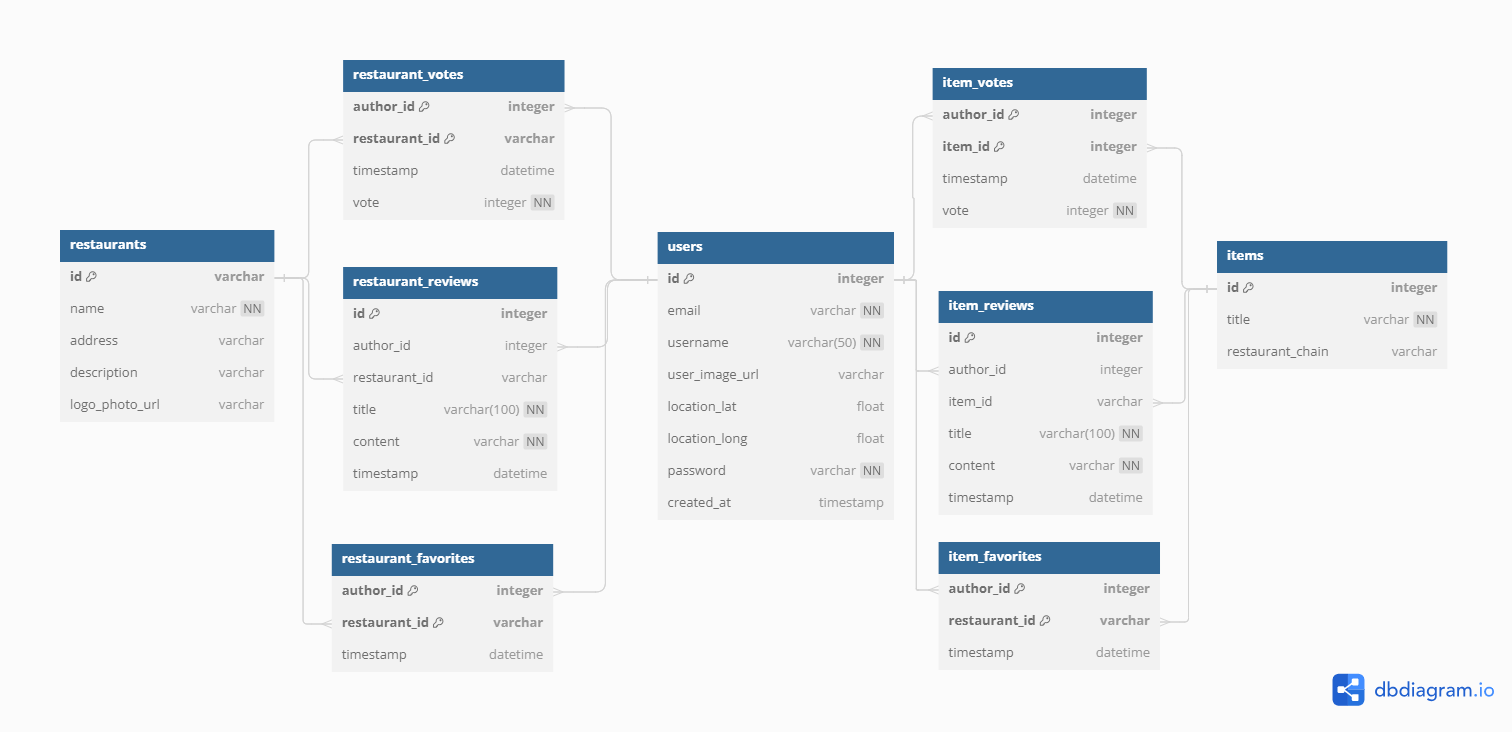
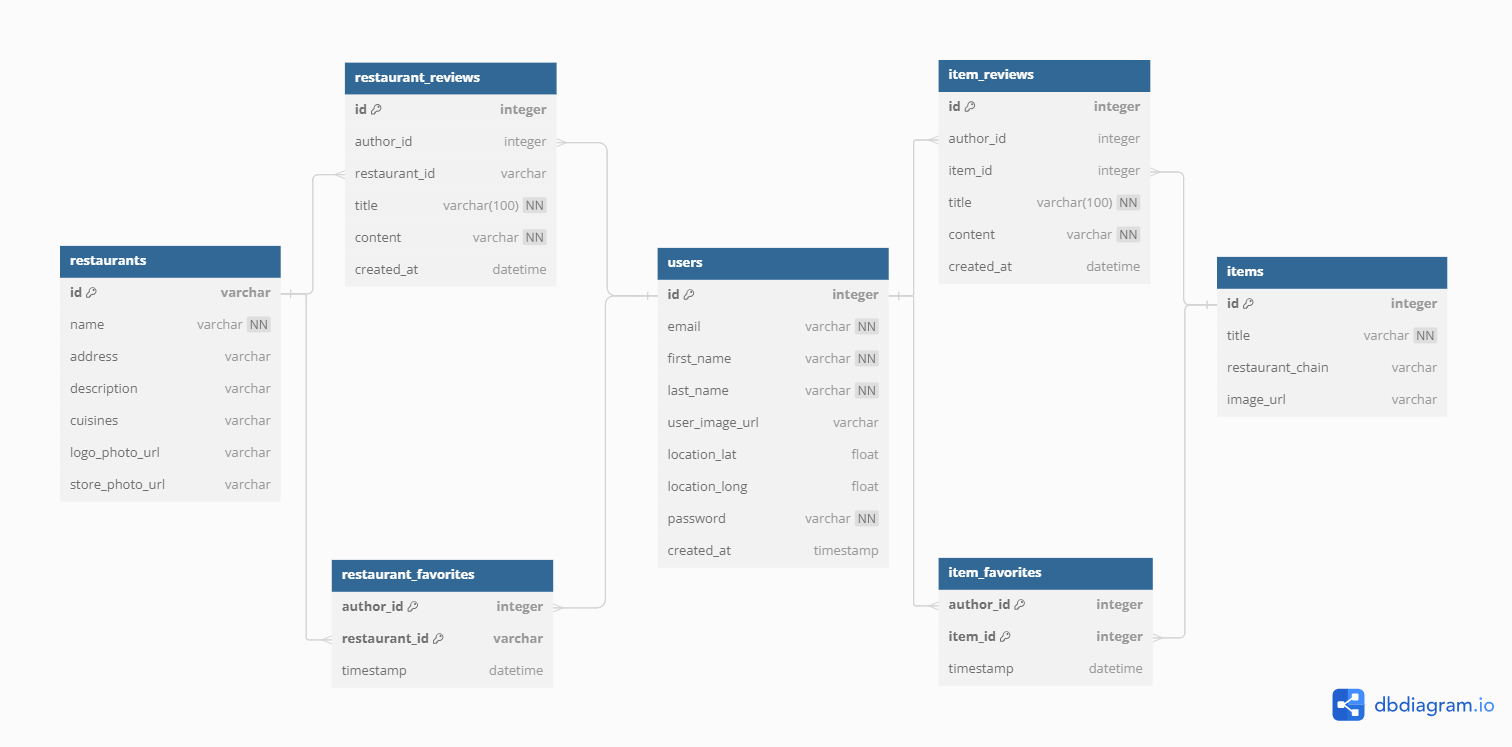
Edited schema and set up restaurant, menu item models

diff --git a/models.py b/models.py
@@ -1,6 +1,6 @@
 """SQLAlchemy models for the Vote4Food app."""
 
-from datetime import datetime
+from datetime import datetime, timezone
 
 from flask_bcrypt import Bcrypt #For user signup/login password hashing
 from flask_sqlalchemy import SQLAlchemy
@@ -10,15 +10,17 @@ db = SQLAlchemy()
 
 class User(db.Model):
     """User in the app. A user can create an account by signing up, then logging in.
-    User will sign up with a unique email, unique username, password, and optional profile picture."""
+    User will sign up with a first name, last name, unique email address, password, and optional profile picture."""
 
     __tablename__ = "users"
 
     id = db.Column(db.Integer, primary_key=True, autoincrement=True)
+    first_name = db.Column(db.Text, nullable=False)
+    last_name = db.Column(db.Text, nullable=False)
     email = db.Column(db.Text, nullable=False, unique=True)
-    username = db.Column(db.String(50), nullable=False, unique=True)
     password = db.Column(db.Text, nullable=False)
     user_image_url = db.Column(db.Text, default="vote4food_default")
+    created_at = db.Column(db.DateTime, default=datetime.now(timezone.utc))
     
     # Once logged in, users can set their address which will be converted into longitude and latitude for restaurant lookup.
     location_lat = db.Column(db.Float)
@@ -27,15 +29,28 @@ class User(db.Model):
 class Restaurant(db.Model):
     """Restaurant location, NOT restaurant chain. Each location of a restaurant will be a different instance of the Restaurant model.
     This is for restaurant location lookup. Contains some restaurant location data taken from the API so that locations that have
-    been upvoted/downvoted, reviewed, and/or favorited by the user can be accessed quickly."""
+    been reviewed and/or favorited by the user can be accessed quickly."""
 
     __tablename__ = "restaurats"
 
+    id = db.Column(db.Text, primary_key=True)
+    name = db.Column(db.Text, nullable=False)
+    address = db.Column(db.Text)
+    description = db.Column(db.Text)
+    cuisines = db.Column(db.Text)
+    store_photo_url = db.Column(db.Text)
+    logo_photo_url = db.Column(db.Text, default="vote4food_default")
+
 class Item(db.Model):
-    """Restaurant menu item. Contains some data for a menu item taken from the API so that items that have been upvoted/downvoted,
-    reviewed, and/or favorited by the user can be accessed quickly."""
+    """Restaurant menu item. Contains some data for a menu item taken from the API so that items that have been reviewed 
+    and/or favorited by the user can be accessed quickly."""
 
     __tablename__ = "items"
+
+    id = db.Column(db.Integer, primary_key=True, autoincrement=True)
+    title = db.Column(db.Text, nullable=False)
+    restaurant_chain = db.Column(db.Text)
+    image_url =db.Column(db.Text, default="vote4food_default")
 
 
 
